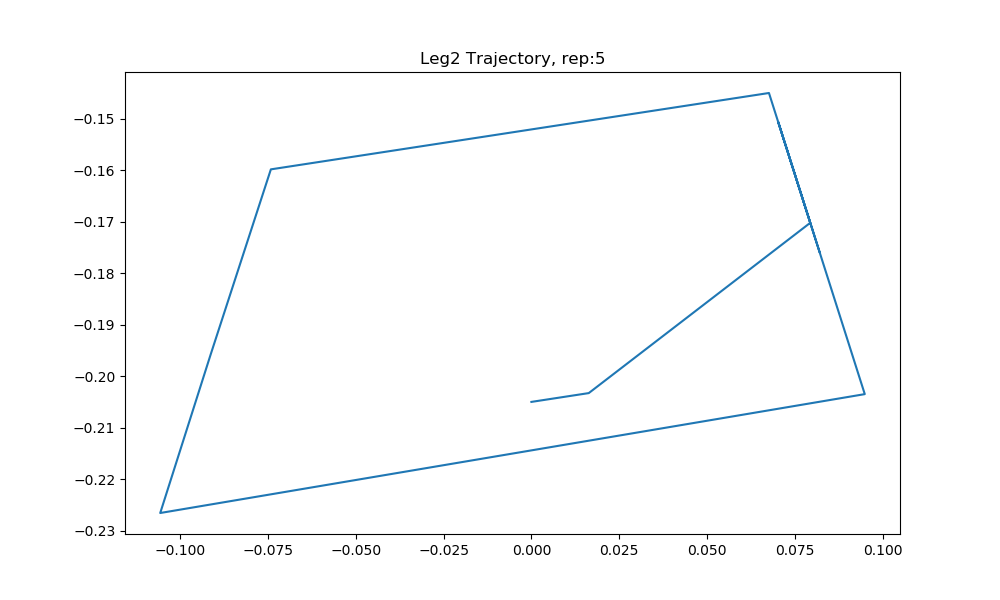
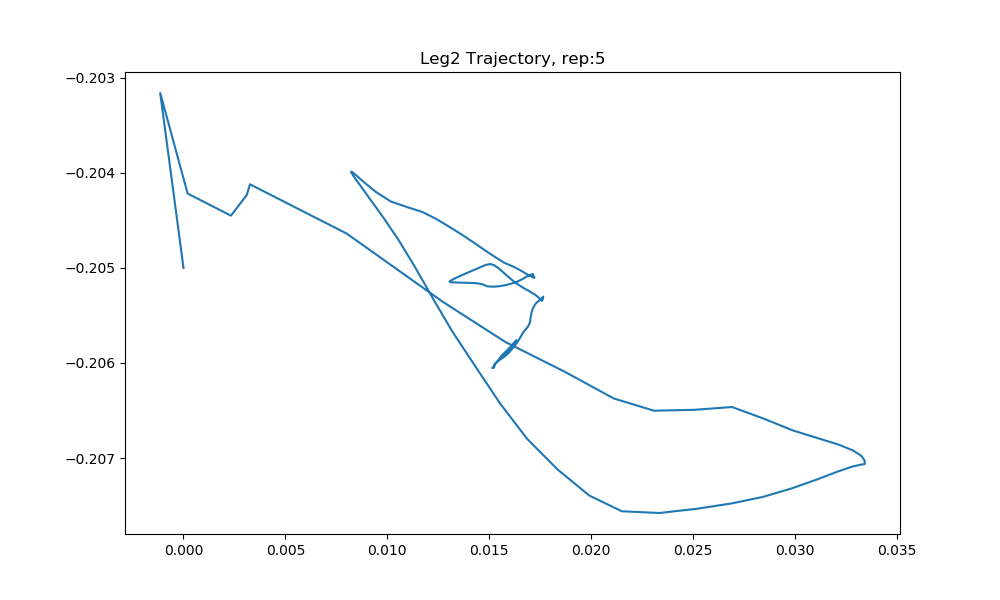
Made normalizationof states start from scratch for each episode during training. Fixed the standard deviation, it is now only calculated for the best directions and not for all directions

diff --git a/experiments/ars_multi.py b/experiments/ars_multi.py
@@ -165,7 +165,9 @@ class Policy():
 # Exploring the policy on one specific direction and over one episode
 
 
-def explore(env, normalizer, policy, direction, delta, hp):
+def explore(env, policy, direction, delta, hp):
+  nb_inputs = env.observation_space.sample().shape[0]
+  normalizer = Normalizer(nb_inputs)
   state = env.reset()
   done = False
   num_plays = 0.
@@ -238,15 +240,12 @@ def train(env, policy, normalizer, hp, parentPipes, args):
     else:
       # Getting the positive rewards in the positive directions
       for k in range(hp.nb_directions):
-        positive_rewards[k] = explore(env, normalizer, policy, "positive", deltas[k], hp)
+        positive_rewards[k] = explore(env, policy, "positive", deltas[k], hp)
 
       # Getting the negative rewards in the negative/opposite directions
       for k in range(hp.nb_directions):
-        negative_rewards[k] = explore(env, normalizer, policy, "negative", deltas[k], hp)
+        negative_rewards[k] = explore(env, policy, "negative", deltas[k], hp)
 
-    # Gathering all the positive/negative rewards to compute the standard deviation of these rewards
-    all_rewards = np.array(positive_rewards + negative_rewards)
-    sigma_r = all_rewards.std()
     # Sorting the rollouts by the max(r_pos, r_neg) and selecting the best directions
     scores = {
         k: max(r_pos, r_neg)
@@ -254,12 +253,15 @@ def train(env, policy, normalizer, hp, parentPipes, args):
     }
     order = sorted(scores.keys(), key=lambda x: -scores[x])[:int(hp.nb_best_directions)]
     rollouts = [(positive_rewards[k], negative_rewards[k], deltas[k]) for k in order]
-
+   
+    # Gathering all the positive/negative rewards to compute the standard deviation of these rewards
+    all_rewards = np.array([x[0] for x in rollouts] + [x[1] for x in rollouts])
+    sigma_r = all_rewards.std() # Standard deviation of only rewards in the best directions is what it should be
     # Updating our policy
     policy.update(rollouts, sigma_r, args)
 
     # Printing the final reward of the policy after the update
-    reward_evaluation = explore(env, normalizer, policy, None, None, hp)
+    reward_evaluation = explore(env, policy, None, None, hp)
     logger.log_kv('steps', total_steps)
     logger.log_kv('return', reward_evaluation)
     if(reward_evaluation > best_return):

diff --git a/experiments/test_policy_ars.py b/experiments/test_policy_ars.py
@@ -1,6 +1,6 @@
 import sys, os
 sys.path.append(os.path.realpath('../..'))
-sys.path.append('/home/sashank/stoch2_gym_env')
+# sys.path.append('/home/sashank/stoch2_gym_env')
 import pickle
 import pybRL.baselines.mlp_baseline as mlp_baseline
 from pybRL.utils.gym_env import GymEnv
@@ -17,18 +17,20 @@ import numpy as np
 import time
 # p.connect(p.GUI)
 # env = e.MinitaurTrottingEnv(render=True)
-env = e.StochBulletEnv(render = True, gait = 'trot')
-path = '/home/sashank/mjrl-master/pybRL/experiments/policy_MinitaurTrottingEnv-v0_20190522-110536.npy'
+env = e.StochBulletEnv(render = True, gait = 'trot', energy_weight = 10.0 )
+# path = '/home/sashank/mjrl-master/pybRL/experiments/policy_MinitaurTrottingEnv-v0_20190522-110536.npy'
 # path = '/home/abhik/pybRL/experiments/Stoch2_ARS_1/iterations/best_policy.npy'
-path = '/home/rbccps/pybRL/experiments/Stoch_Test/iterations/best_policy.npy'
+path = os.path.realpath('../..') + '/pybRL/experiments/Stoch2_wt_2/iterations/policy_0.npy'
 state = env.reset()
 logger = DataLog()
 i = 0
 policy = np.load(path)
 print(policy)
-while i<20:
+total_reward = 0
+while i<1000:
     action = np.matmul(policy, state)
-    state, reward, done, info = env.step(np.clip(action, -1, 1))
+    state, reward, done, info = env.step(action)
+    total_reward = total_reward + reward
     i =i+1
     logger.log_kv('x_leg1', info['xpos'][0])
     logger.log_kv('x_leg2', info['xpos'][1])
@@ -36,5 +38,6 @@ while i<20:
     logger.log_kv('y_leg2', info['ypos'][1])
 
     # time.sleep(1./30.)
+print(total_reward)
 
 plotter.plot_traj(logger, ['x_leg1', 'x_leg2'], ['y_leg1', 'y_leg2'], ['Leg1 Trajectory, rep:5', 'Leg2 Trajectory, rep:5'], save_loc= './')
